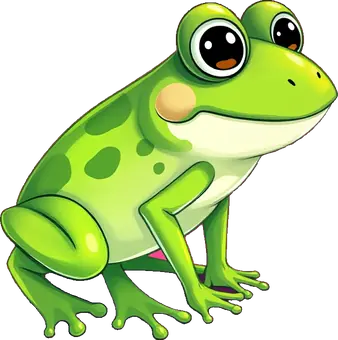
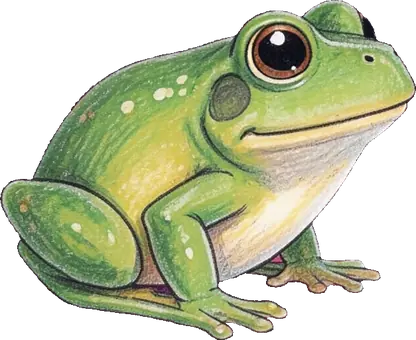
Art status tracker (scripts/artstatus.py, docs/ART-STATUS.md); place 48 Cloudflare klein images

diff --git a/scripts/artstatus.py b/scripts/artstatus.py
@@ -1,0 +1,77 @@
+"""Art status for every tool: what each tool needs, what is drawn, placed and checked.
+
+    python scripts/artstatus.py                  table for every tool with art/prompts.json, and docs/ART-STATUS.md
+    python scripts/artstatus.py <tool-id>        one tool, asset by asset
+    python scripts/artstatus.py <tool-id> --ok name [name ...]          mark checked and good
+    python scripts/artstatus.py <tool-id> --redo name:"reason" [...]    mark for a redraw, with the reason
+
+States, from prompts.json and the files on disk:
+  needed     in prompts.json, nothing drawn yet
+  drawn      candidates in art/raw/, none picked
+  placed     art/<name>.webp exists, review "pending" (localart.py --pick sets this)
+  ok         checked and good (review "ok"), or the tool is live and was approved before tracking began
+  redo       review starts with "redo: ..." (the reason says what is wrong)
+  gemini     a person ("people": true): drawn by Gemini with a review, never by a local or Cloudflare model
+"""
+import json, sys
+from pathlib import Path
+
+ROOT = Path(__file__).resolve().parent.parent
+STATES = ['needed', 'drawn', 'placed', 'redo', 'ok']
+
+
+def state(tool, a):
+    art = ROOT / 'tools' / tool / 'art'
+    review = a.get('review', '')
+    if review.startswith('redo'):
+        return 'redo'
+    if (art / f"{a['name']}.webp").exists():
+        live = (ROOT / 'tools' / tool / 'tool.json').exists()
+        return 'ok' if review == 'ok' or (not review and live) else 'placed'
+    if a.get('people'):
+        return 'gemini'
+    return 'drawn' if list((art / 'raw').glob(f"{a['name']}.c*.png")) else 'needed'
+
+
+def load(tool):
+    f = ROOT / 'tools' / tool / 'art' / 'prompts.json'
+    return f, json.loads(f.read_text(encoding='utf-8'))
+
+
+def main():
+    args = sys.argv[1:]
+    if len(args) >= 2 and args[1] in ('--ok', '--redo'):
+        f, spec = load(args[0])
+        by = {a['name']: a for a in spec['assets']}
+        for item in args[2:]:
+            name, _, why = item.partition(':')
+            if name not in by:
+                sys.exit(f'no asset {name!r} in {args[0]}')
+            by[name]['review'] = 'ok' if args[1] == '--ok' else f'redo: {why or "needs a redraw"}'
+        f.write_text(json.dumps(spec, indent=2, ensure_ascii=False) + '\n', encoding='utf-8')
+        args = args[:1]
+    tools = args or sorted(p.parent.parent.name for p in (ROOT / 'tools').glob('*/art/prompts.json'))
+    rows, lines = [], []
+    for t in tools:
+        _, spec = load(t)
+        sts = [(a, state(t, a)) for a in spec['assets']]
+        count = {s: sum(1 for _, x in sts if x == s) for s in STATES + ['gemini']}
+        draft = (ROOT / 'tools' / t / 'tool.draft.json').exists()
+        rows.append((t, 'draft' if draft else 'live', len(sts), count))
+        if args:
+            for a, s in sts:
+                print(f"  {s:7} {a['name']:16} {a.get('source', '')}  {a.get('review', '') if s == 'redo' else ''}")
+    head = f"| Tool | | Needed | Drawn | Placed | Redo | OK | Gemini (people) | Total |\n|---|---|---|---|---|---|---|---|---|"
+    body = [f"| {t} | {k} | {c['needed']} | {c['drawn']} | {c['placed']} | {c['redo']} | {c['ok']} | {c['gemini']} | {n} |" for t, k, n, c in rows]
+    tot = {s: sum(c[s] for *_, c in rows) for s in STATES + ['gemini']}
+    body.append(f"| **All** | | {tot['needed']} | {tot['drawn']} | {tot['placed']} | {tot['redo']} | {tot['ok']} | {tot['gemini']} | {sum(r[2] for r in rows)} |")
+    print(head); print('\n'.join(body))
+    if not args:
+        redo = [f"- {t}/{a['name']}: {a['review'][6:]}" for t in tools for a in load(t)[1]['assets'] if a.get('review', '').startswith('redo')]
+        (ROOT / 'docs' / 'ART-STATUS.md').write_text(
+            '# Art status\n\nGenerated by `python scripts/artstatus.py`; do not edit by hand. States are explained at the top of that script.\n\n'
+            + head + '\n' + '\n'.join(body) + '\n' + ('\n## Redraws\n\n' + '\n'.join(redo) + '\n' if redo else ''), encoding='utf-8')
+
+
+if __name__ == '__main__':
+    main()

diff --git a/scripts/localart.py b/scripts/localart.py
@@ -98,6 +98,11 @@ def main():
                 img = img.point(lambda v: max(0, round((v - 16) * 255 / 239)))
             img.save(raw / f'{name}.png')
             names.append(name)
+            # record where the art came from and that it needs a look (scripts/artstatus.py tracks this)
+            asset['source'] = 'flux2-klein-4b (Cloudflare)' if int(k) >= 9 else 'flux1-schnell (local)'
+            asset['review'] = 'pending'
+        (art / 'prompts.json').write_text(json.dumps(spec, indent=2, ensure_ascii=False) + '
+', encoding='utf-8')
         subprocess.run([sys.executable, str(ROOT / 'scripts' / 'art.py'), tool, *names, '--rekey'], check=True)
         return
     n = int(args[args.index('--n') + 1]) if '--n' in args else 3

diff --git a/docs/ART-STATUS.md b/docs/ART-STATUS.md
@@ -1,0 +1,64 @@
+# Art status
+
+Generated by `python scripts/artstatus.py`; do not edit by hand. States are explained at the top of that script.
+
+| Tool | | Needed | Drawn | Placed | Redo | OK | Gemini (people) | Total |
+|---|---|---|---|---|---|---|---|---|
+| animal-moves | draft | 12 | 0 | 0 | 0 | 1 | 0 | 13 |
+| art-passport | live | 0 | 0 | 0 | 0 | 2 | 0 | 2 |
+| beat-buddies | live | 0 | 0 | 0 | 0 | 5 | 0 | 5 |
+| calm-corner | draft | 0 | 0 | 0 | 1 | 1 | 0 | 2 |
+| career-match-quiz | live | 0 | 0 | 0 | 0 | 6 | 0 | 6 |
+| chord-explorer | live | 0 | 0 | 0 | 0 | 1 | 0 | 1 |
+| classifier-scenes | live | 0 | 0 | 0 | 0 | 28 | 0 | 28 |
+| classroom-phrases-game | draft | 0 | 0 | 0 | 2 | 14 | 0 | 16 |
+| community-map-words | draft | 12 | 0 | 0 | 0 | 0 | 12 | 24 |
+| concert-ticket-market | live | 0 | 0 | 0 | 0 | 6 | 0 | 6 |
+| contraction-crusher | live | 0 | 0 | 0 | 0 | 6 | 0 | 6 |
+| corner-store | live | 0 | 0 | 0 | 0 | 16 | 0 | 16 |
+| factor-forge | live | 0 | 0 | 0 | 0 | 6 | 0 | 6 |
+| feelings-weather-report | live | 0 | 0 | 0 | 0 | 11 | 0 | 11 |
+| first-apartment-budget | live | 0 | 0 | 0 | 0 | 9 | 0 | 9 |
+| frame-it | live | 0 | 0 | 0 | 0 | 3 | 0 | 3 |
+| germ-spread-sim | live | 0 | 0 | 0 | 0 | 11 | 0 | 11 |
+| habit-hero | draft | 0 | 0 | 0 | 0 | 4 | 0 | 4 |
+| habitat-hunt | live | 0 | 0 | 0 | 0 | 44 | 0 | 44 |
+| hamburger-paragraph | live | 0 | 0 | 0 | 0 | 12 | 0 | 12 |
+| how-animals-see | live | 0 | 0 | 0 | 0 | 20 | 0 | 20 |
+| hundred-hop | live | 0 | 0 | 0 | 0 | 5 | 0 | 5 |
+| i-spy-science | draft | 0 | 0 | 0 | 2 | 26 | 0 | 28 |
+| idiom-island | live | 0 | 0 | 0 | 0 | 25 | 0 | 25 |
+| label-detective | live | 0 | 0 | 0 | 0 | 26 | 0 | 26 |
+| library-adventure | draft | 0 | 0 | 0 | 0 | 1 | 0 | 1 |
+| line-safari | live | 0 | 0 | 0 | 0 | 3 | 0 | 3 |
+| loop-garden | live | 0 | 0 | 0 | 0 | 11 | 0 | 11 |
+| lunch-tray-builder | draft | 25 | 0 | 0 | 2 | 1 | 0 | 28 |
+| marching-band | live | 0 | 0 | 0 | 0 | 6 | 0 | 6 |
+| market-time-machine | live | 0 | 0 | 0 | 0 | 5 | 0 | 5 |
+| me-on-the-map | live | 0 | 0 | 0 | 0 | 6 | 0 | 6 |
+| melody-maker | live | 0 | 0 | 0 | 0 | 3 | 0 | 3 |
+| melt-or-not | live | 0 | 0 | 0 | 0 | 21 | 0 | 21 |
+| mind-map | live | 0 | 0 | 0 | 0 | 2 | 0 | 2 |
+| moon-phase-model | live | 0 | 0 | 0 | 0 | 4 | 0 | 4 |
+| nations-of-north-america | live | 0 | 0 | 0 | 0 | 11 | 0 | 11 |
+| note-ninja | live | 0 | 0 | 0 | 0 | 3 | 0 | 3 |
+| orchestra-zoo | live | 0 | 0 | 0 | 0 | 31 | 0 | 31 |
+| paint-mixer | live | 0 | 0 | 0 | 0 | 2 | 0 | 2 |
+| resource-detective | live | 0 | 0 | 0 | 0 | 21 | 0 | 21 |
+| safety-street | draft | 7 | 0 | 0 | 0 | 2 | 0 | 9 |
+| size-of-everything | live | 0 | 0 | 0 | 0 | 36 | 0 | 36 |
+| smoothie-lab | live | 0 | 0 | 0 | 0 | 9 | 0 | 9 |
+| sound-elevator | draft | 0 | 0 | 0 | 0 | 1 | 0 | 1 |
+| three-pigs-lab | live | 0 | 0 | 0 | 0 | 18 | 0 | 18 |
+| vanishing-point-studio | live | 0 | 0 | 0 | 0 | 5 | 0 | 5 |
+| **All** | | 56 | 0 | 0 | 7 | 490 | 12 | 565 |
+
+## Redraws
+
+- calm-corner/corner: fake text on the wall posters
+- classroom-phrases-game/help: glove has too many fingers (Cory)
+- classroom-phrases-game/pencil: drew two whole pencils, not one broken pencil
+- i-spy-science/duck: green key cut away the green head; draw on magenta
+- i-spy-science/worm: drawn as a letter S
+- lunch-tray-builder/apple: cast shadow kept as a green blob; draw on magenta
+- lunch-tray-builder/milk: white side of the carton vanished in the cutout
